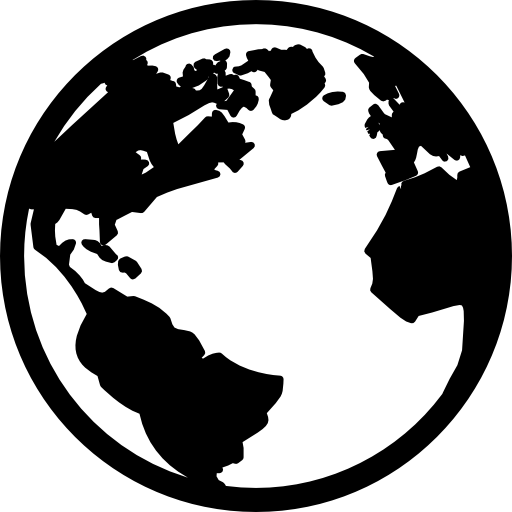
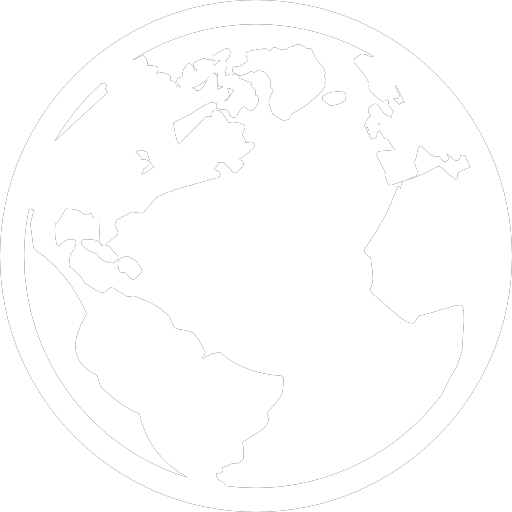
my website, final version

diff --git a/src/main/java/Task2/appearance.css b/src/main/java/Task2/appearance.css
@@ -70,14 +70,15 @@ header, footer {
     padding-bottom: 52px;
 }
 
-.search-button {background: url(images/arrow.png) center left no-repeat;
-    background-size: 12%;
+.search-button {
+    background: var(--yellow) url(images/arrow.png) left 10px top 50% no-repeat;
+    background-size: 14px;
+    margin-left: 15px;
     padding-left: 40px;
     font-weight: bold;
-    margin-left: 15px;
-    background: var(--yellow);
 }
-.search-button:disabled{
+
+.search-button:disabled {
     cursor:pointer;
     color: black;
 }
@@ -90,6 +91,7 @@ h1 {
 }
 
 .subtitle {
+    font-family: Ebrima;
     max-width: 768px;
     margin: 0 auto;
     padding: 0 15px;
@@ -105,6 +107,24 @@ footer .row {
     justify-content: center;
     list-style-type: none;
     gap: 50px;
+}
+
+.header-nav ul li a {
+    display: inline-flex;
+    height: 100%;
+}
+
+.header-nav ul li img {
+    max-width: 14px;
+    align-self: center;
+}
+
+.header-nav ul li:last-child a::after {
+    content: '\25BC';
+    display: inline-block;
+    align-self: center;
+    margin-left: 7px;
+    font-size: 12px;
 }
 
 .footer-nav li {
@@ -139,6 +159,7 @@ label {
     font-weight: bold;
     margin-right: 20px;
     text-transform: uppercase;
+    width: 100%;
 }
 
 input {
@@ -170,7 +191,7 @@ button {
     margin-top: 35px;
     margin-left: 135px;
     max-width: 768px;
-    padding: 0px 95px 80px;
+    padding: 0px 95px 100px;
 
 }
 

diff --git a/src/main/java/Task2/search_page.html b/src/main/java/Task2/search_page.html
@@ -24,16 +24,7 @@
                     <li><a href="javascript:void(0)">our story</a></li>
                     <li><a href="javascript:void(0)">FAQS</a></li>
                     <li><a href="javascript:void(0)">contact</a></li>
-                    <li>
-                        <form action="select1.php" method="post">
-                            <p><select name="hero[]">
-                                <option disabled>Выберите героя</option>
-                                <option value="Чебурашка">Чебурашка</option>
-                                <option selected value="Крокодил Гена">Крокодил Гена</option>
-                                <option value="Шапокляк">Шапокляк</option>
-                                <option value="Крыса Лариса">Крыса Лариса</option>
-                            </select></p>
-                    </li>
+                    <li><a href="javascript:void(0)"><img src="images/planet.png" alt="planet"></a></li>
                 </ul>
             </nav>
         </div>
